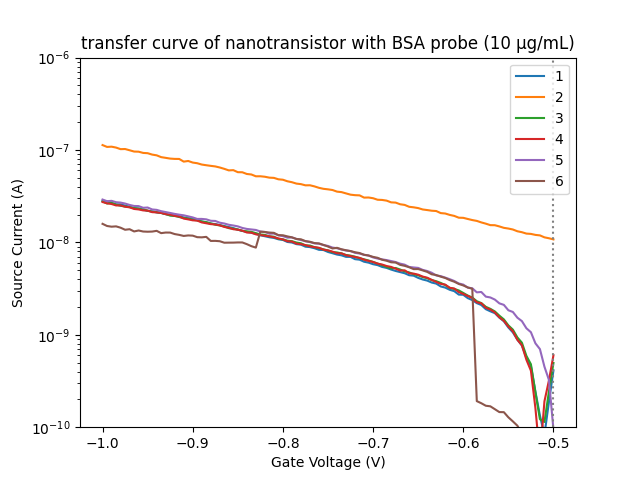
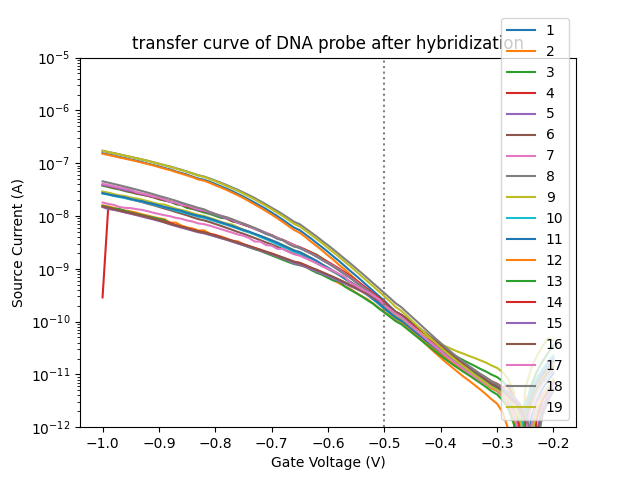
aaaaaaaaaaa

diff --git a/src/plot_one_curve.py b/src/plot_one_curve.py
@@ -13,7 +13,7 @@ for i, file_path in enumerate(file_path_list):
     with open(file_path, "r") as f:
         tmp_data = f.readline()
         raw_data = f.readline()
-    v_data = map(float, tmp_data.split(","))
+    v_data = list(map(float, tmp_data.split(",")))
     c_data = extract_curr_list(raw_data)
     # TODO: chip name
     data = TransistorData(ChipName.SQUARE, "A13", str(i + 1), v_data[0], v_data[1], v_data[2], c_data)
@@ -25,7 +25,7 @@ plot_data_list(
     data_list,
     xlabel="Gate Voltage (V)",
     ylabel="Source Current (A)",
-    ylim=[1e-10, 1e-6],
+    ylim=[1e-12, 1e-5],
     title="transfer curve of DNA probe after hybridization",
     xline=-0.5
 )
